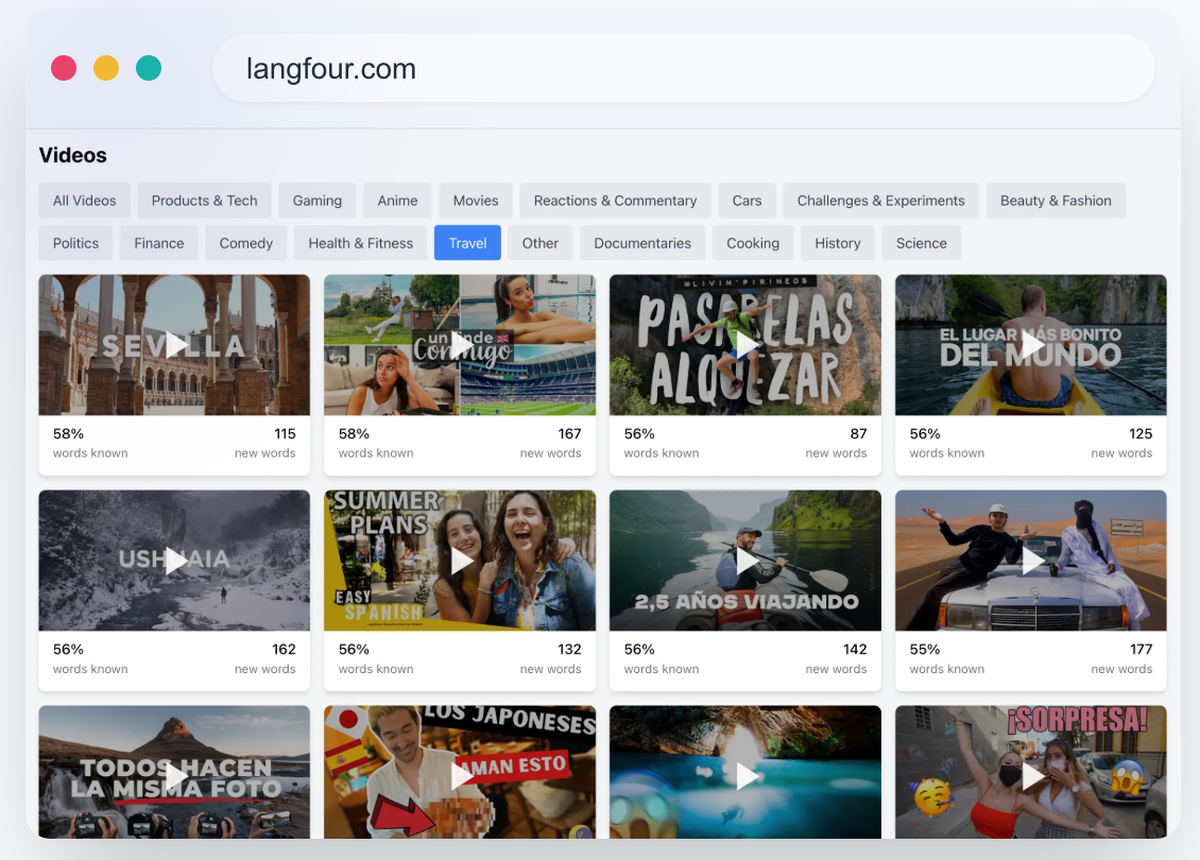
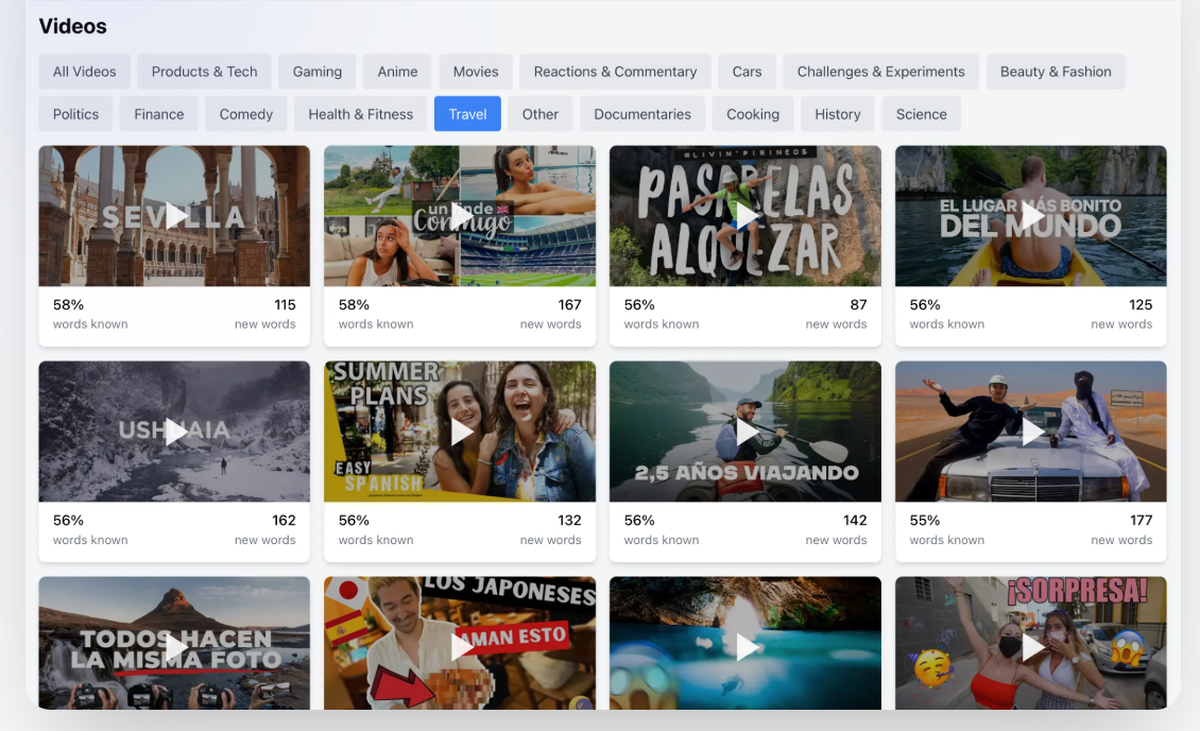
Cut the README back to what it can actually show
Four trims:

Drop the "How It Works" section. The architecture diagram and the
recommendation walkthrough claimed a level of explanation the section
did not deliver, and the Technology table and Engineering Highlights
went with it rather than being left under a heading that no longer had
an argument to make.

Drop the Website / demo / extension / formula link bar under the intro.

Replace the hero image. It was a shot of the landing page, which shows
nothing about what the product does. Use the Videos page instead, since
that is the screen the whole README is about, cropped to remove the
simulated browser frame and its "langfour.com" address pill. The same
screenshot no longer repeats inside the Recommendations section.

Drop the "Updates highlights live as you add words" bullet.

Two references died with the cuts and are repaired rather than left
dangling: the Recommendations section's pointer to the recommendation
formula, and the Content Discovery section's appeal to a document-term
matrix the README no longer introduces.

docs/images/overview.png is kept in the repository though nothing
references it now.

diff --git a/README.md b/README.md
@@ -4,11 +4,9 @@ Langfour is a language-learning platform that turns the content you already cons
 
 Its Chrome extension integrates with YouTube, Netflix, Prime Video and any article page, letting learners translate unfamiliar words in place, save them to a personal vocabulary collection, and discover videos that match their current level. The web app then turns that collection into spaced-repetition practice and vocabulary-aware video recommendations.
 
-[Website](https://www.langfour.com) · [Try the demo](https://app.langfour.com/get-started) (no sign-up needed) · [Chrome extension](https://app.langfour.com/extension) · [How recommendations work](#how-recommendations-are-calculated)
+<!-- TODO: add a 30–60 s demo video link once recorded. -->
 
-<!-- TODO: add a 30–60 s demo video link above once recorded. -->
-
-![Langfour overview: video recommendations ranked by how much of their vocabulary you already know](docs/images/overview.png)
+![The Videos page: YouTube videos ranked by how much of their vocabulary you already know, each card showing the share of known words and the number of new ones](docs/images/recommendations.png)
 
 [![Extension CI](https://github.com/victorfriedrich/langfour/actions/workflows/extension-ci.yml/badge.svg)](https://github.com/victorfriedrich/langfour/actions/workflows/extension-ci.yml)
 
@@ -36,7 +34,6 @@ Reader Mode:
 - Highlights every word that is not yet in your vocabulary
 - Translates a word when you click it, and lets you add it to your collection in one click
 - Translates any selected passage with a context-aware translation, not word by word
-- Updates highlights live as you add words, without reloading
 
 ![Reader Mode highlighting unfamiliar words in a Spanish news article](docs/images/reader-mode.webp)
 
@@ -67,15 +64,13 @@ Each recommendation shows:
 - How many new words it would teach you
 - How many of those new words are high-value, meaning they appear across many other videos
 
-You can filter by category (Cooking, Science, Politics, Gaming and others), preview a video inline before committing to it, and videos you have already watched are excluded. The ranking blends "videos you understand best" with "videos that teach the most useful words"; the exact formula is in [How recommendations are calculated](#how-recommendations-are-calculated).
-
-![The Videos page: each card shows the share of words you already know and the number of new words](docs/images/recommendations.png)
+You can filter by category (Cooking, Science, Politics, Gaming and others), preview a video inline before committing to it, and videos you have already watched are excluded. The ranking blends "videos you understand best" with "videos that teach the most useful words".
 
 ### Vocabulary-Based Content Discovery
 
 Under **Words Known**, Langfour lists the words you do not know yet, ordered by how many videos in your chosen category they appear in. Each word shows the share of the category it unlocks, so you can mark the ones you already recognise as known or add the rest to your collection with a shift-click range selection.
 
-This is the same document-term matrix the recommender uses, read column-wise instead of row-wise.
+This is the recommender's own index read the other way round: instead of scoring videos by the words you already know, it scores words by how many videos they would unlock.
 
 ![Words Known → Add Common Words: unfamiliar words ranked by how many Travel videos they appear in](docs/images/vocabulary-frequency.png)
 
@@ -131,68 +126,6 @@ Import notes:
 - Anki import currently supports Spanish and Italian decks.
 
 ![Anki import screen](docs/images/anki-import.png)
-
-## How It Works
-
-```mermaid
-flowchart LR
-    subgraph Browser
-        EXT["Chrome extension<br/>(subtitles, reader mode)"]
-        WEB["Next.js web app<br/>(practice, recommendations)"]
-    end
-    subgraph Backend
-        API["FastAPI<br/>recommender · NLP · import"]
-        M["Sparse document-term matrix<br/>per language"]
-    end
-    DB[("Supabase Postgres<br/>words · wordforms · userwords<br/>RLS + RPC")]
-    LLM["OpenRouter (DeepSeek)<br/>DeepInfra (Whisper)"]
-    R2["Cloudflare R2<br/>transcript corpus"]
-
-    EXT -- "translate, save word" --> API
-    EXT -- "known words, auth" --> DB
-    WEB -- "recommendations, examples" --> API
-    WEB -- "flashcards, progress" --> DB
-    API --> M
-    API --> DB
-    API -- "roots, translations, sentences" --> LLM
-    R2 -- "streamed at boot" --> M
-```
-
-Every word a user encounters is resolved to a **dictionary root ID** (`hablaba` → `hablar` → one integer). Videos and articles are stored as lists of those IDs, the user's vocabulary is a set of them, and everything else (highlighting, recommendations, coverage, word discovery) is set arithmetic over the same ID space.
-
-### How recommendations are calculated
-
-For each language the API holds a sparse binary document-term matrix **D** (10,231 videos × 205,062 root IDs for Spanish; IDs are global across languages, so the matrix is extremely sparse) in SciPy CSR format, built once from the transcript corpus and cached on disk as `.npz` with a metadata sidecar that is validated against the corpus on every boot.
-
-1. The user's known words become a 0/1 vector **u** over the same vocabulary.
-2. One sparse matrix-vector product, `D · u`, gives the number of known unique words in every video at once. Dividing by each row's total gives a **comprehension ratio** per video.
-3. Videos the user has already watched and videos with fewer than 100 unique words are dropped, and an optional category filter is applied.
-4. A second list is built the other way round: the unknown words that appear in the most videos of the chosen category are the **most useful words**, and `D · w` over that word set ranks videos by how many useful words they contain.
-5. The two rankings are blended by rank position with a tradeoff λ (`score = λ · rank_known + (1 − λ) · rank_useful`), and the top results are returned with their comprehension percentage, new-word count and useful-word count.
-
-Only the top candidates have their JSON metadata read from disk, so a request costs one sparse product plus a handful of file reads, not a scan of 10,000 transcripts.
-
-### Technology
-
-| Layer | Choice |
-|---|---|
-| Frontend | Next.js 16 (App Router), React 18, TypeScript, Tailwind CSS, Radix UI, Chart.js, Framer Motion |
-| Backend | Python 3.11, FastAPI, Pydantic v2, NumPy + SciPy sparse matrices |
-| Database and auth | Supabase Postgres with row-level security on every table, Postgres RPC functions for spaced repetition and progress queries, Supabase Auth with anonymous demo accounts |
-| Browser extension | Chrome Manifest V3, TypeScript, Parcel; `scripting`, `storage`, `activeTab` and `commands` APIs; Mozilla Readability, DOMPurify, wink-pos-tagger |
-| Language models | OpenRouter (DeepSeek V4 Pro for judgement, V4 Flash for bulk work) through the OpenAI SDK; Whisper large-v3-turbo on DeepInfra for transcription |
-| Content ingestion | youtube-transcript-api, pytubefix + ffmpeg fallback, Readability for articles |
-| Deployment | Web app on Vercel; API as a Docker image on Koyeb; transcript corpus in Cloudflare R2 |
-| CI and tests | GitHub Actions runs ESLint and `tsc --noEmit` for the extension on every push and pull request; pytest suites cover the Anki and media import pipelines |
-
-### Engineering Highlights
-
-- **Vocabulary normalization with a self-extending dictionary.** The API loads every root and inflected form for all four languages from Postgres into an in-memory map at boot, so identifying a word is a dictionary lookup. When a form is missing, a language model proposes the root and its inflections, the result is validated and written back, and the next lookup is a cache hit. If the cache loads empty, the service refuses to start: with row-level security on, a wrong key yields zero rows and HTTP 200, and an API that treats every word as unknown would look healthy while being useless.
-- **Reader Mode never touches the host page.** Readability runs inside the content script against a clone of the live DOM, the extracted HTML goes through DOMPurify, and the result renders in an extension-owned page (`chrome-extension://…/reader.html`). The original tab is untouched, site CSS and scripts cannot interfere, and known-word highlights update in place via `chrome.storage.onChanged` when the background worker refreshes the vocabulary cache.
-- **Subtitle interaction across four video players.** A `MutationObserver` on each player's caption container catches subtitle text nodes as they appear, tokenizes them with a Unicode-aware regex, and re-wraps each word in a span. Hovering pauses the player through a per-site adapter (YouTube, Netflix, Prime Video, kino.pub); Prime Video's caption DOM cannot be rewritten, so words there are masked with overlays positioned from `Range.getClientRects()`. Because the injected page script runs in the MAIN world without `chrome.*` access, preferences and the known-word set are relayed to it through `CustomEvent`s on `document`.
-- **A 2.2 GB corpus that never enters git or the container image.** The 11,800 transcripts compress 16× into one tarball per language (134 MB total) in object storage. At boot the API streams them straight from the HTTP body through a `tarfile` pipe reader into place, at 20 MB peak RSS for 1.99 GB extracted. Reading the body into memory first, the obvious approach, needs 130 MB. Each language directory gets a completion marker so an interrupted extraction is redone rather than trusted.
-- **Provider-agnostic structured output.** All chat completions go through OpenRouter using the unchanged OpenAI SDK, with model names in environment variables so swapping providers is a config change. Structured calls first try strict JSON-schema mode, fall back to plain JSON mode when the routed provider lacks it, and always validate the result with Pydantic, so the schema is the contract and `response_format` is only an optimisation.
-- **One trust boundary, enforced at boot.** The web app and extension ship the public `anon` key and are constrained by RLS; only the API holds the `service_role` key. The API decodes its own key's `role` claim at startup and refuses to serve with anything else, because a mis-deployed anon key on the server fails silently rather than loudly.
 
 ## Running Langfour Locally
 
